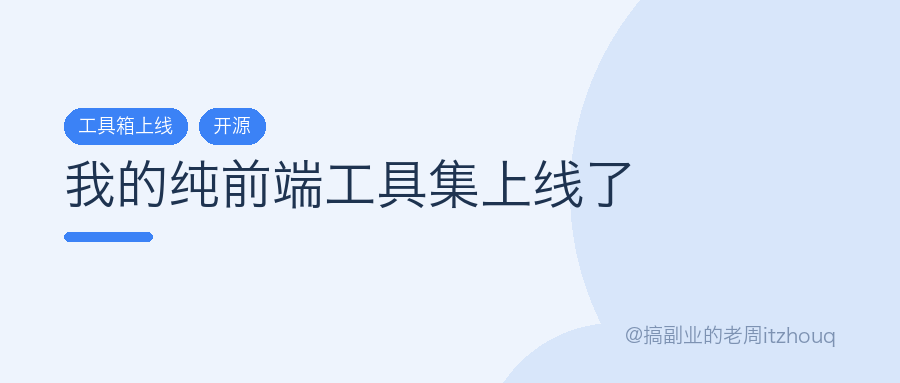
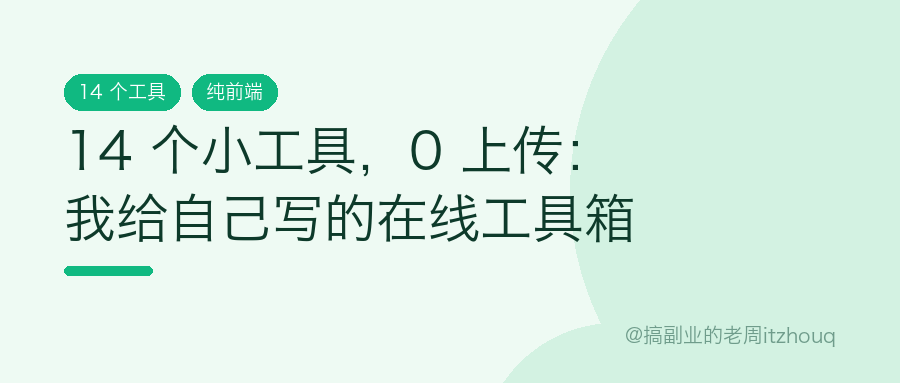
posts: 标题工序回炉——6 篇新标题+新封面（数字/反直觉公式，slug 不变；备用 X hook 见调研报告）

Changed region(s): [[0.0622, 0.1723, 0.7156, 0.6319], [0.6844, 0.8329, 0.9333, 0.9191], [0.0622, 0.6893, 0.1867, 0.718]]

diff --git a/content/posts/build-blog-from-scratch.md b/content/posts/build-blog-from-scratch.md
@@ -1,8 +1,8 @@
 ---
-title: 从零手写一个 Next.js 博客（本站的技术栈与实现）
+title: 2026 年还手写博客？我从空目录写了一个
 date: 2026-10-03
 tags: [Next.js, 建站]
-summary: 不用模板，从空目录开始手写：Markdown 管线、深浅色主题、RSS/SEO、搜索。本站就是用它搭的，这篇是自曝实现细节。
+summary: 不用模板，从空目录手写 Next.js 博客：Markdown 管线、深浅色主题、RSS/SEO、搜索。本站就是用它搭的，这篇是自曝实现细节。
 ---
 
 你现在看到的这个博客，是我从空目录开始手写的——没有用任何现成博客模板。这篇文章公开全部实现细节，也算给自己留一份"为什么这么设计"的备忘。

diff --git a/content/posts/web-tools-launch.md b/content/posts/web-tools-launch.md
@@ -1,5 +1,5 @@
 ---
-title: 小工具，解决日常小麻烦：我的纯前端工具集上线了
+title: 14 个小工具，0 上传：我给自己写的在线工具箱
 date: 2026-10-09
 tags: [独立开发, Next.js, Cloudflare, 工具站, 开源]
 summary: 压缩图片、查 Token、写文案怕踩违禁词……这些小事每次都要现找在线工具，广告多还要上传隐私。于是自己写了一个：14 个纯前端工具，全部在浏览器本地完成，双域名形态上线，代码开源。聊聊工具清单、架构取舍和上线过程。

diff --git a/content/posts/wechat-mcp-local-ai-digest.md b/content/posts/wechat-mcp-local-ai-digest.md
@@ -1,5 +1,5 @@
 ---
-title: 用 MCP 让 AI 读你的微信群消息：本地解密 + AI 总结全流程
+title: 每天 1000+ 条群消息，我让 AI 在本地帮我读
 date: 2026-10-08
 tags: [MCP, AI, 微信, 数据本地化]
 summary: 微信群消息太多看不过来？我用 MCP 把本地解密的微信数据库接入 AI，让 AI 自动总结群消息、追踪热词趋势、跨群搜索关键词。全程本地运行，数据不上云。本文只讲思路和技术方案，因法律风险不开源不分发。

diff --git a/content/posts/adsterra-revenue-automation.md b/content/posts/adsterra-revenue-automation.md
@@ -1,5 +1,5 @@
 ---
-title: 给广告收益装上自动挡：Adsterra API 化改造复盘
+title: 看收益这件事，我从工作清单里删掉了
 date: 2026-10-11
 tags: [Adsterra, API, 自动化, Build in Public]
 summary: 挂广告靠 Agent 开浏览器取码，看收益靠手动记账——两件重复劳动，一个烧 token 一个靠忘性。这篇复盘我怎么把 Adsterra 改成 API 优先、浏览器只留三件事，再把收益公开接成每周一自动回填的管道。

diff --git a/content/posts/archery-mcp-open-source.md b/content/posts/archery-mcp-open-source.md
@@ -1,5 +1,5 @@
 ---
-title: 让 AI 只读"看见"生产库：archery-mcp 开源复盘
+title: AI 老写错表结构？3 个痛点逼出 archery-mcp
 date: 2026-10-07
 tags: [MCP, AI, 数据库, 开源]
 summary: test 和 prod 表结构不一致、上线脚本靠人工比对、数据清洗摸不到生产数据特征——为这三个痛点我做了一个 Archery 的 MCP Server，现在开源了。聊聊方案取舍、设计决策和这次开源脱敏的教训。

diff --git a/content/posts/first-ai-tool.md b/content/posts/first-ai-tool.md
@@ -1,5 +1,5 @@
 ---
-title: 给博客挂上第一个 AI 小工具
+title: 一个下午，给博客挂上第一个 AI 工具
 date: 2026-10-07
 tags: [AI, Next.js, Build in Public]
 summary: 从设计决策到上线只花了一个下午：BYOK 模式、流式输出、混合内容的坑——本站第一个工具「AI Chat 游乐场」的完整复盘。
